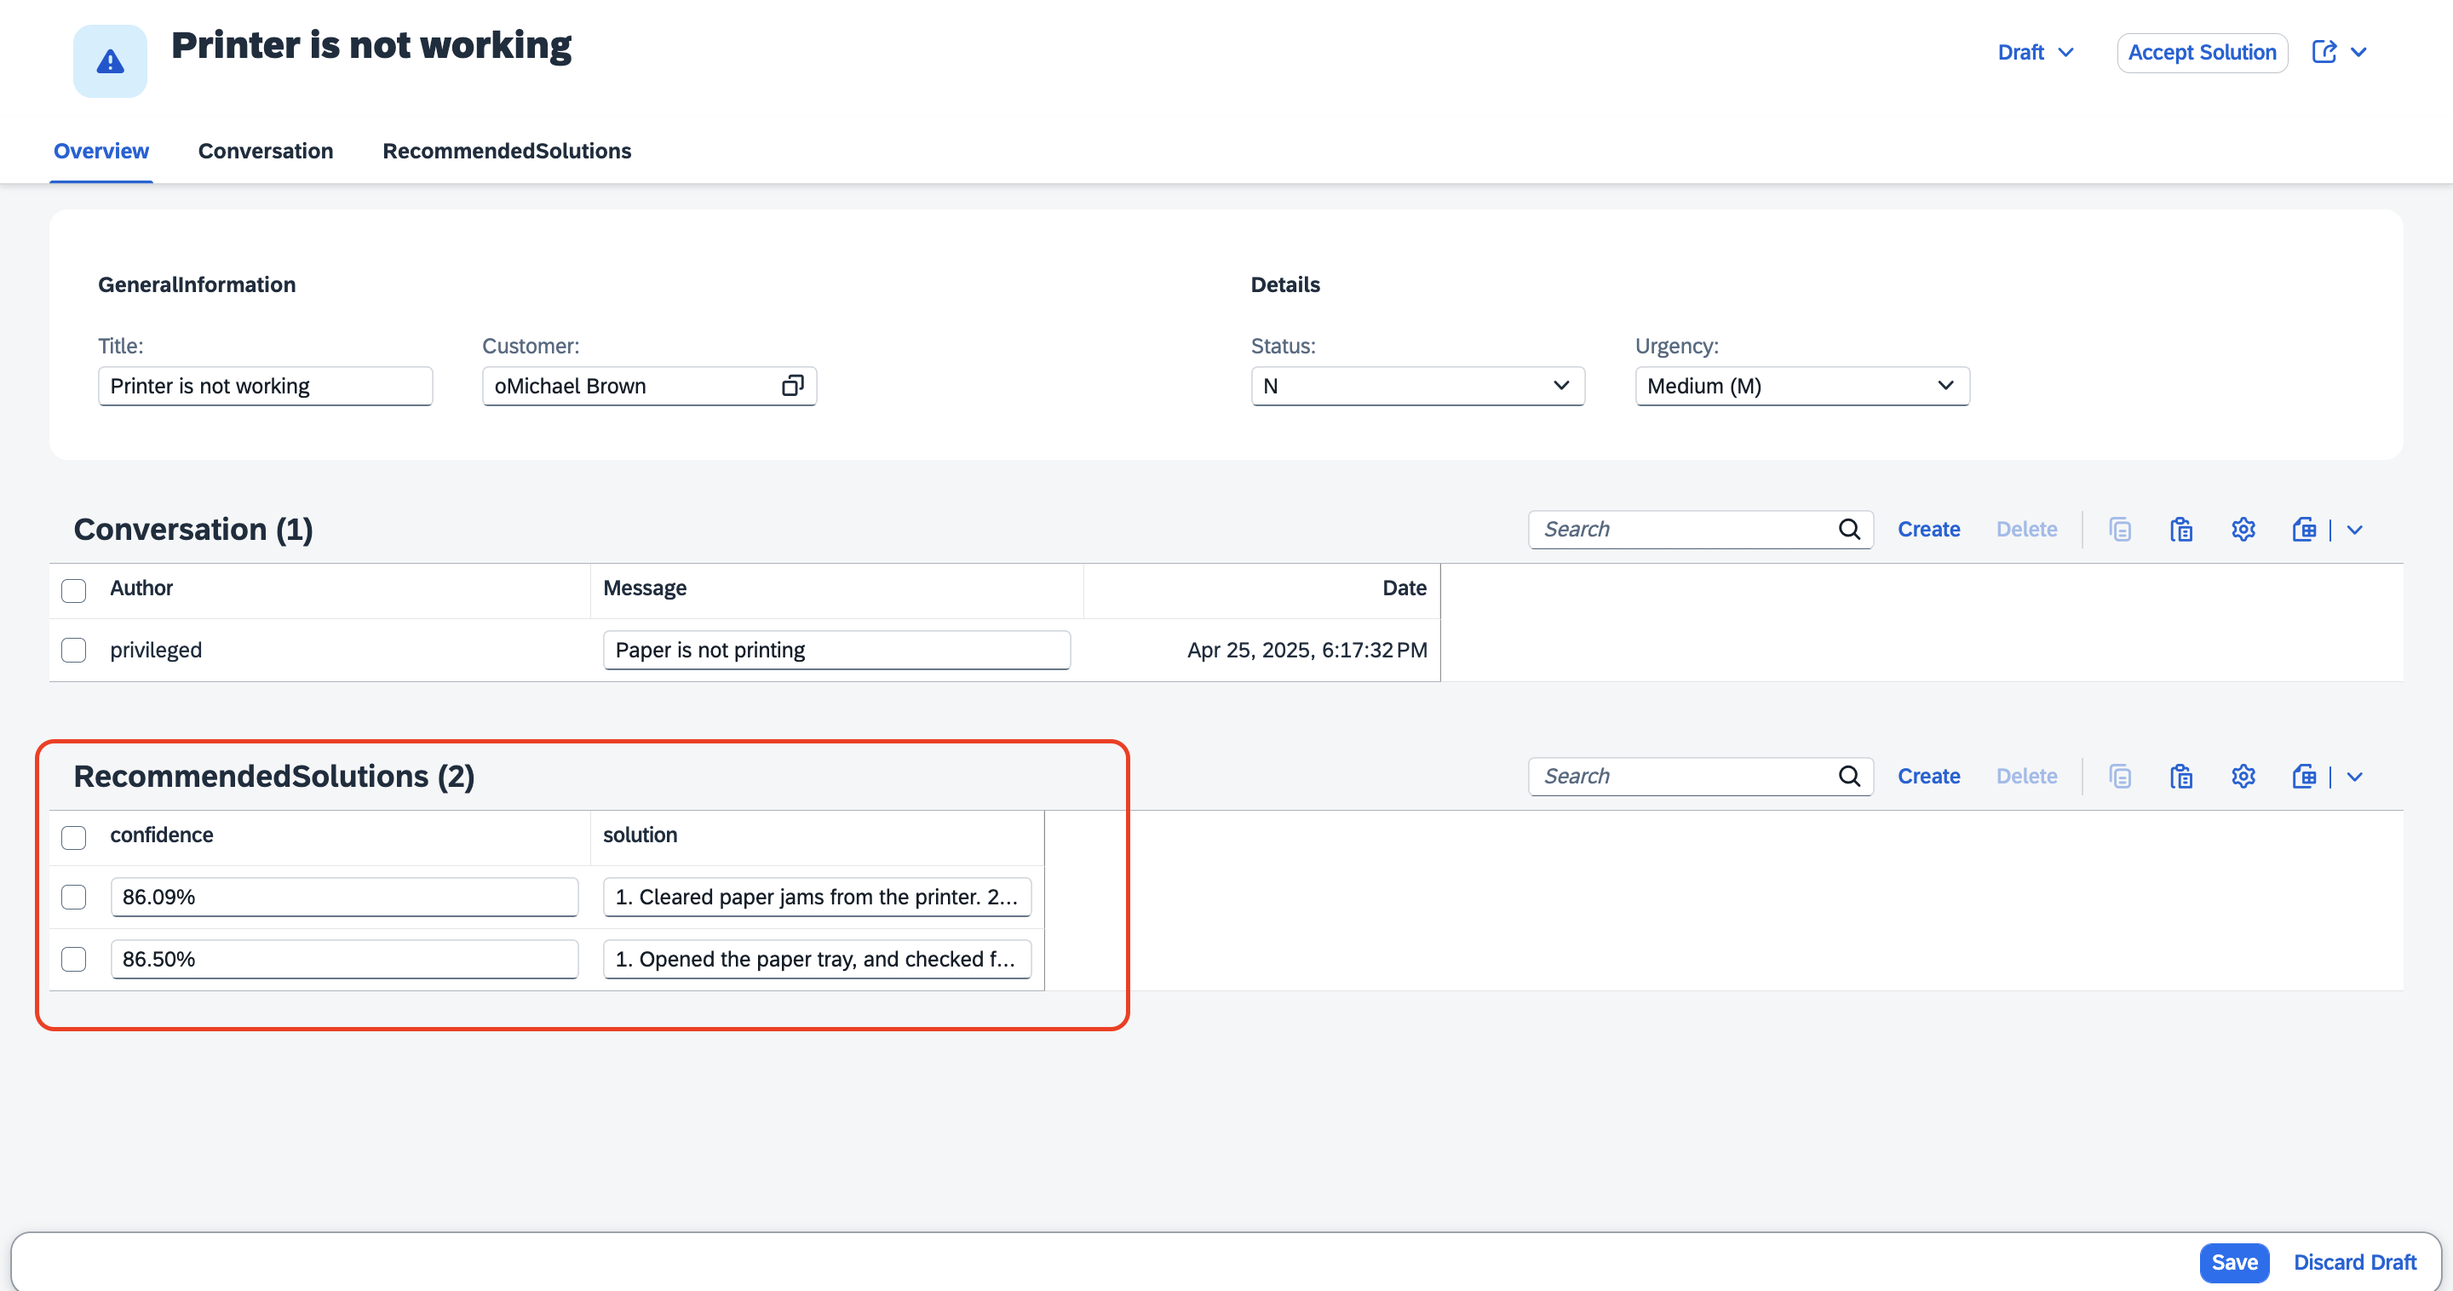
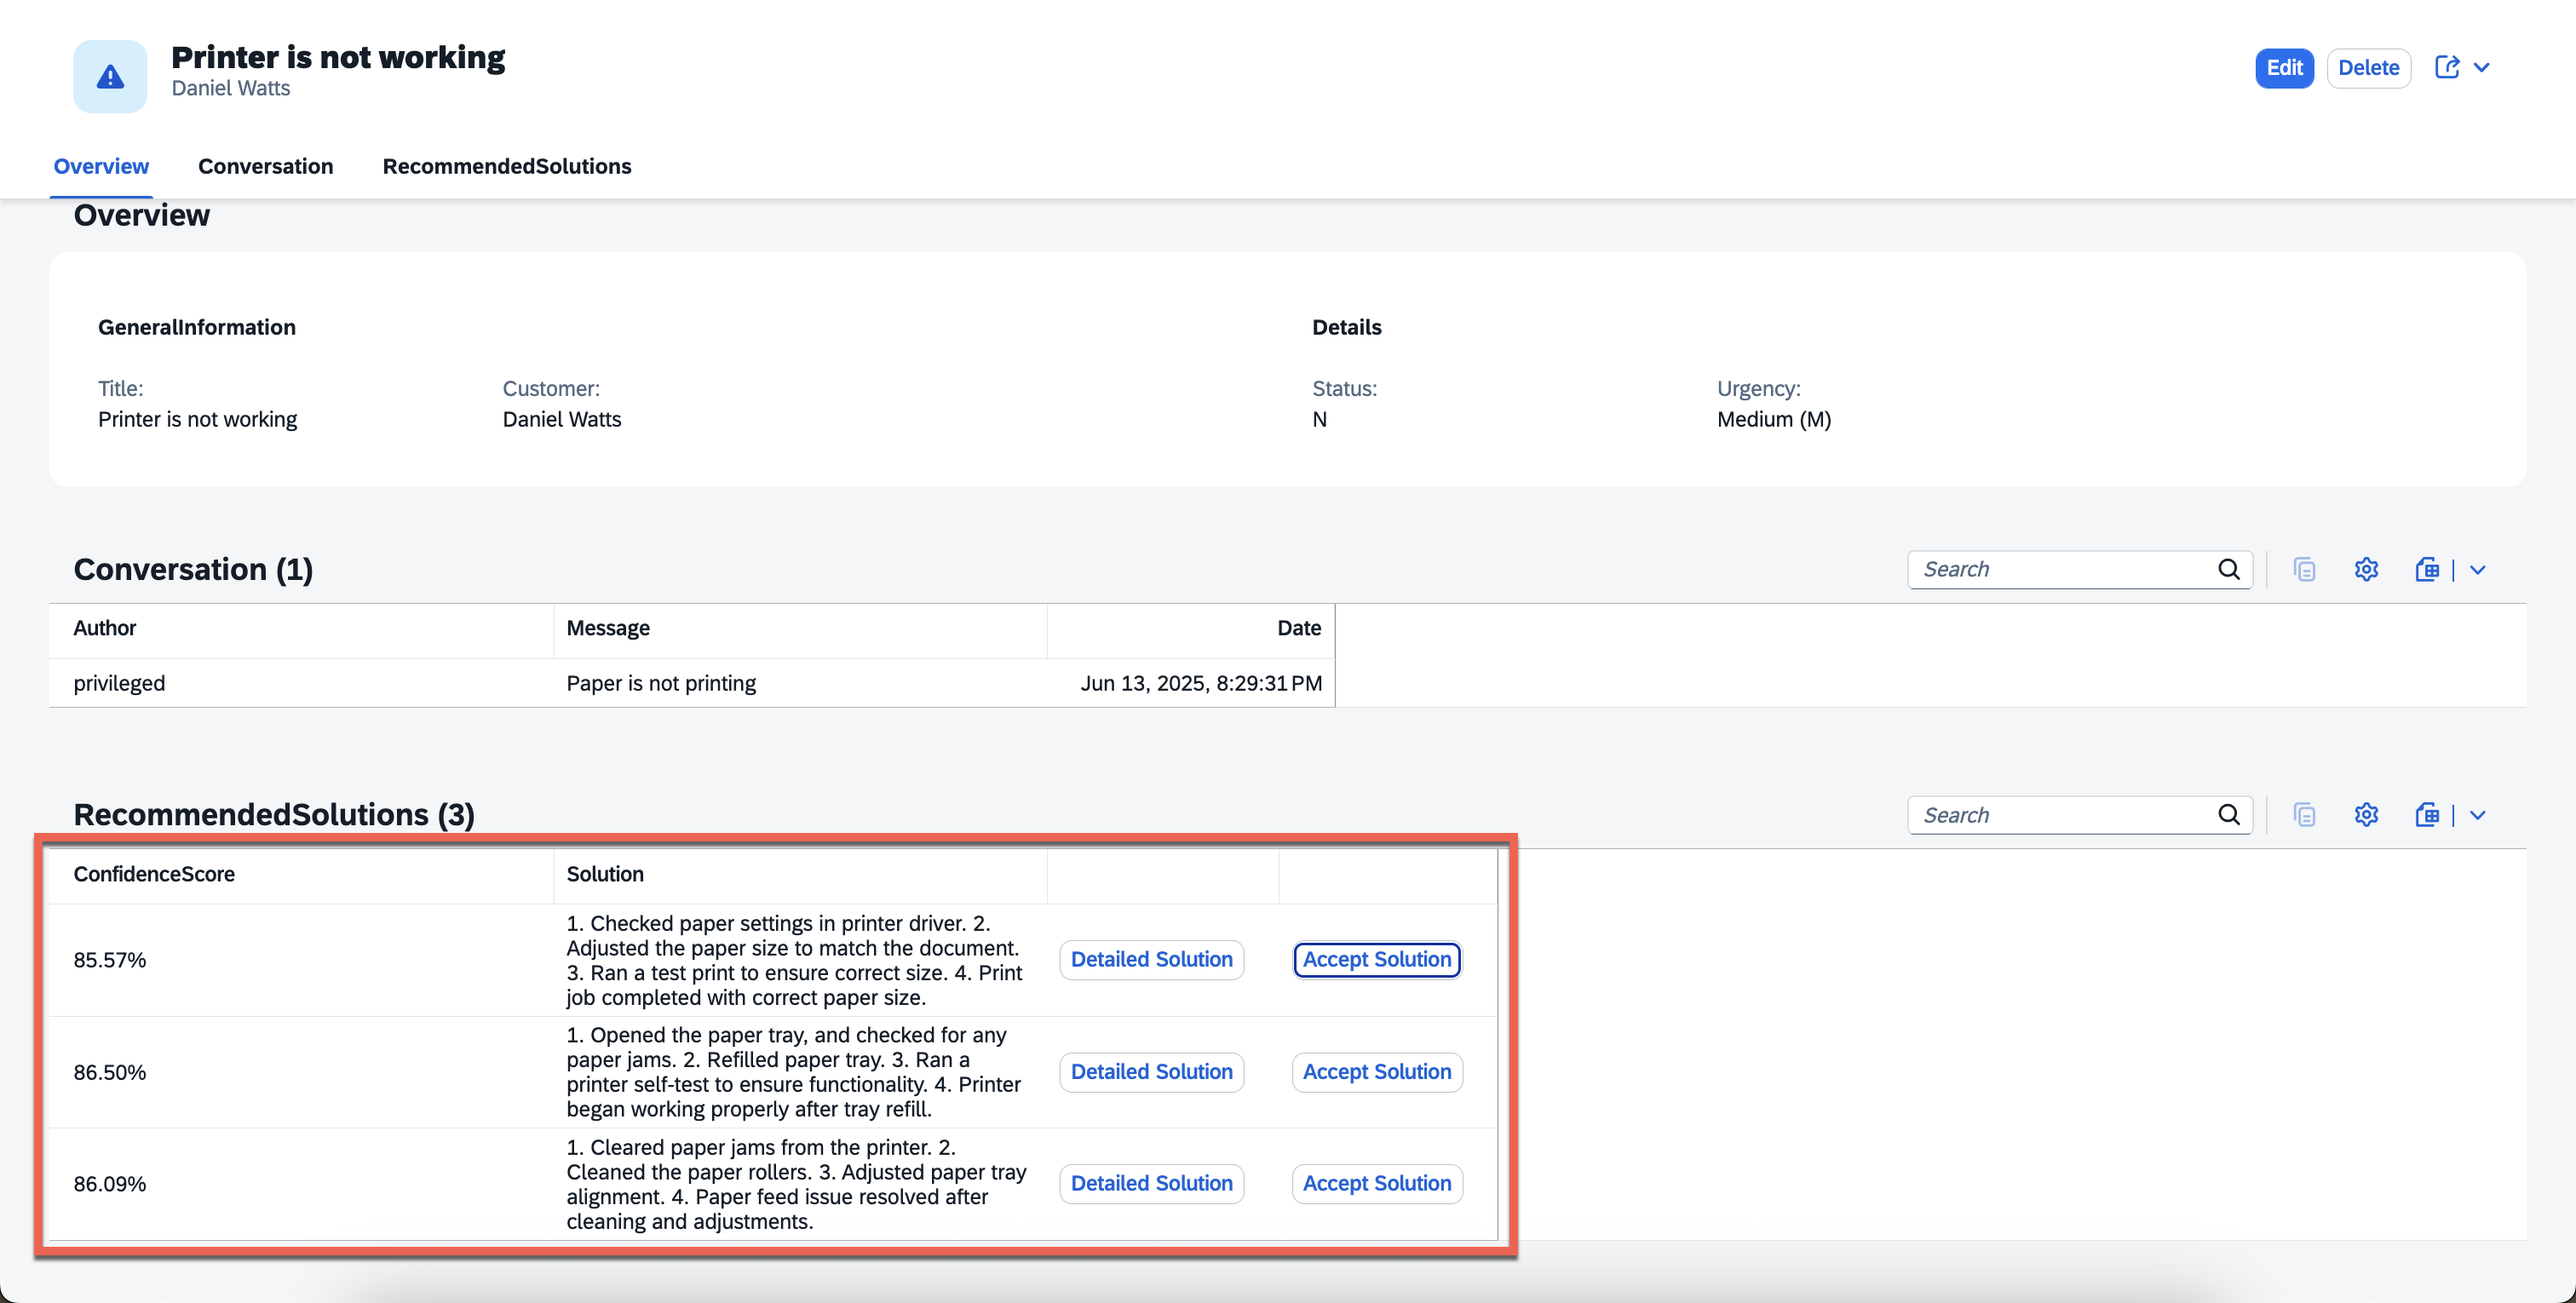
document updates

diff --git a/build-code-with-ai-capability/README.md b/build-code-with-ai-capability/README.md
@@ -1,7 +1,8 @@
 # Develop Full Stack BTP Applications powered by AI
 
-In this hands-on exercise, you will learn how to jumpstart your application development of a full-stack SAP Cloud Application Programming Model (CAP)-based application.
+In this hands-on exercise, you will learn how to accelerate the development of a full-stack SAP Cloud Application Programming Model (CAP)-based application and enhance it with AI capabilities.
 
+You will integrate SAP AI Core, a cloud-native runtime for managing the lifecycle of AI assets such as machine learning models, and inference workflows. SAP AI Core provides robust orchestration, scalability, and secure access to AI workloads, enabling the seamless embedding of intelligence into business applications on SAP BTP.
 
 # Business Scenario
 
@@ -23,10 +24,6 @@ ACME is a popular Electronics company. ACME hires call center support representa
 
 1. [Add dependencies for SAP Cloud SDK for AI ](./document/prerequisites.md)
 2. [Extend the Incident Management Application](./document/extend-service.md)
-2. [Test the Scenario End to End](./document/e2e-testing.md)
+3. [Test the Scenario End to End](./document/e2e-testing.md)
 
-## [Optional] Exercise 3: Deploy in SAP BTP, Cloud Foundry Runtime
 
-1. [Deploy to SAP BTP, Cloud Foundry Runtime](./document/deploy-cf.md)
-2. [Integrate Your Application with SAP Build Work Zone, Standard Edition](./document/integrate-workzone.md) 
-3. [Test the Scenario End to End](./document/e2e-testing-cf.md)

diff --git a/build-code-with-ai-capability/document/extend-service.md b/build-code-with-ai-capability/document/extend-service.md
@@ -22,12 +22,11 @@ service ProcessorService {
  
     @readonly
     entity Customers as projection on my.Customers;
-    action FeedData() returns String;
 }
 ```
 
 > [!Tip]
-> to be updated
+> The vectorEmbeddings entity enables integration with SAP AI services by storing vector representations of text data, which are essential for performing semantic similarity and retrieval-augmented generation (RAG) in AI-driven scenarios.
 
 3. Under `srv`, create a new file called `service.js` and add the following content.
 
@@ -208,7 +207,7 @@ module.exports = { ProcessorService };
 ```
 
 > [!Tip]
-> to be updated
+> This service.js file adds custom logic to handle solution acceptance, generate vector embeddings using SAP AI SDK, and retrieve relevant AI-powered recommendations using Retrieval-Augmented Generation (RAG).
 
 ## Add Annotations to enhance the Fiori UI
 

diff --git a/build-code-with-ai-capability/document/e2e-testing.md b/build-code-with-ai-capability/document/e2e-testing.md
@@ -59,16 +59,9 @@ cds watch --profile hybrid
 
     ![testing](../images/teste2e/recommend.png)
 
-8. Click on **Accept Solution**.
+8. Click on **Detailed Solution** to get the detailed explanation.
 
     ![testing](../images/teste2e/accept1.png)
 
-9. In the dropdown, click on **Yes**, if the recommended solution worked. And click on **Accept Solution** again.
-
-    ![testing](../images/teste2e/accept2.png)
-
-10. You will get a notification as **Data added successfully!**
-
-    ![testing](../images/teste2e/data-saved.png)
 
 ## Go back to the [Home Page](../../build-code-with-ai-capability/README.md#optional-exercise-3-deploy-in-sap-btp-cloud-foundry-runtime) to deploy to the Cloud Foundry Runtime.

diff --git a/build-code-with-ai-capability/document/prerequisites.md b/build-code-with-ai-capability/document/prerequisites.md
@@ -16,7 +16,7 @@
 ```
 
 > [!Note]
-> These packages are needed for 
+> These packages are needed for integrating AI capabilities into the application using SAP AI Cloud SDK for intelligent processing and automation.
 
 2. From the root of the project, choose the burger menu, and then choose Terminal → New Terminal.
 
